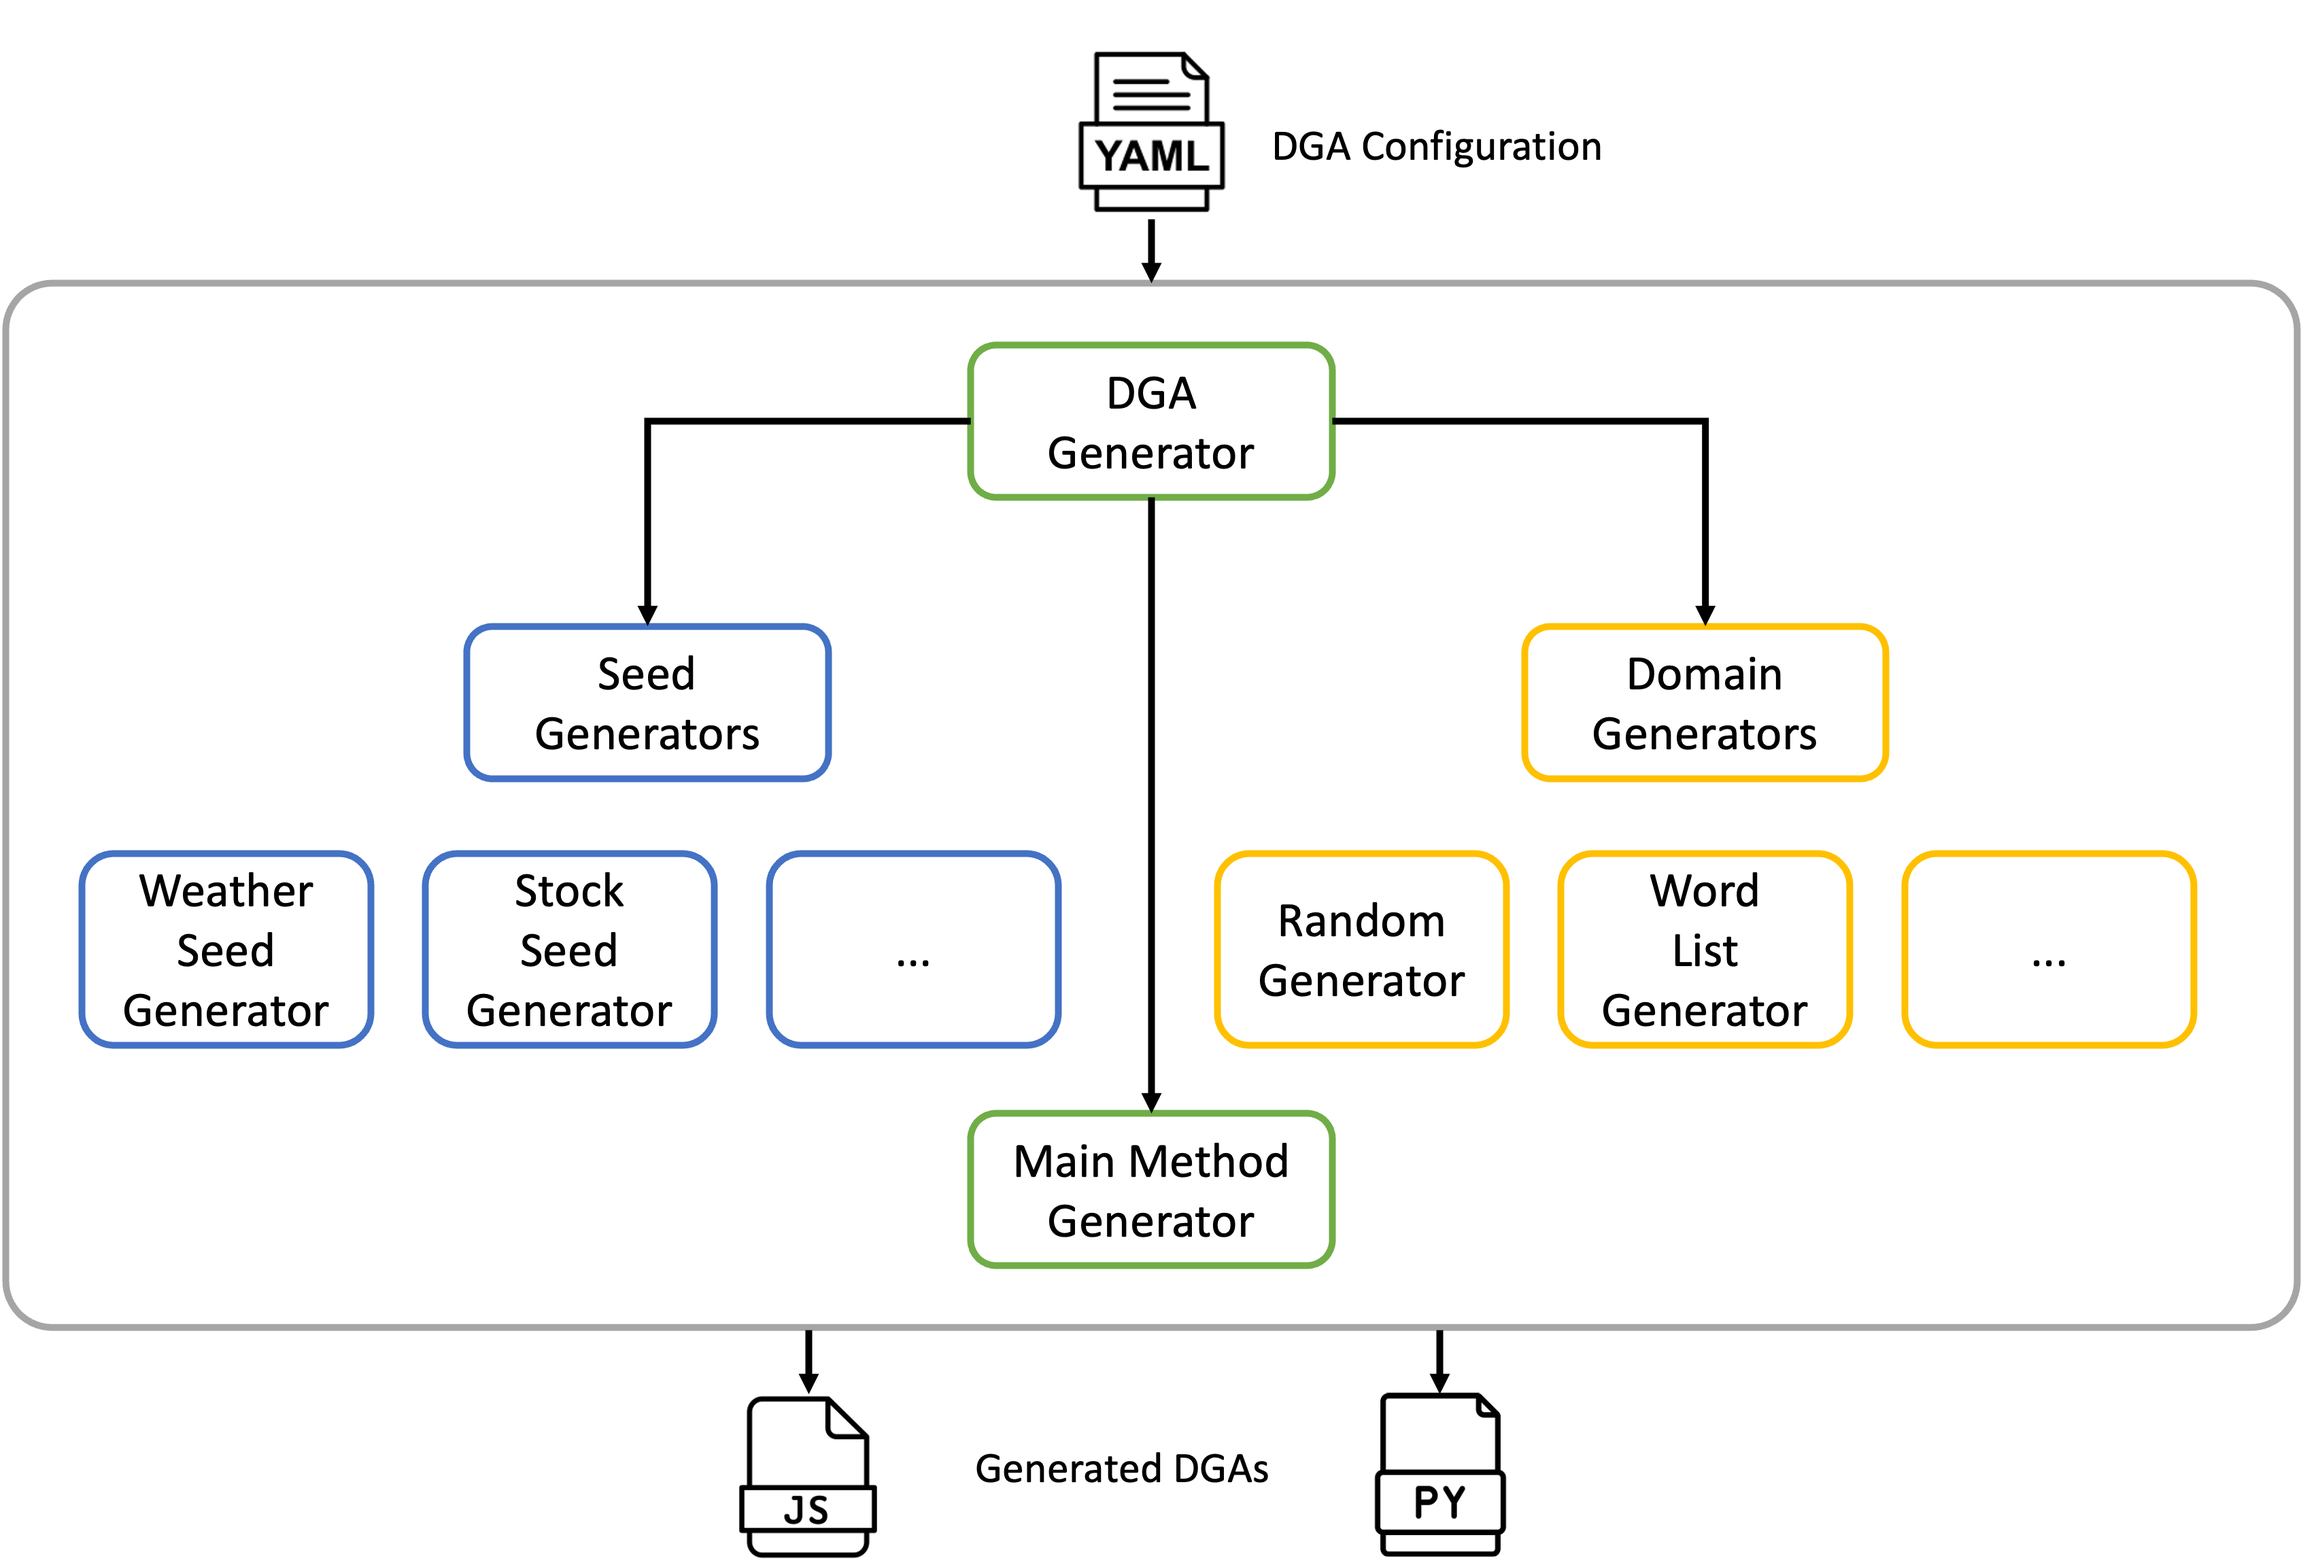
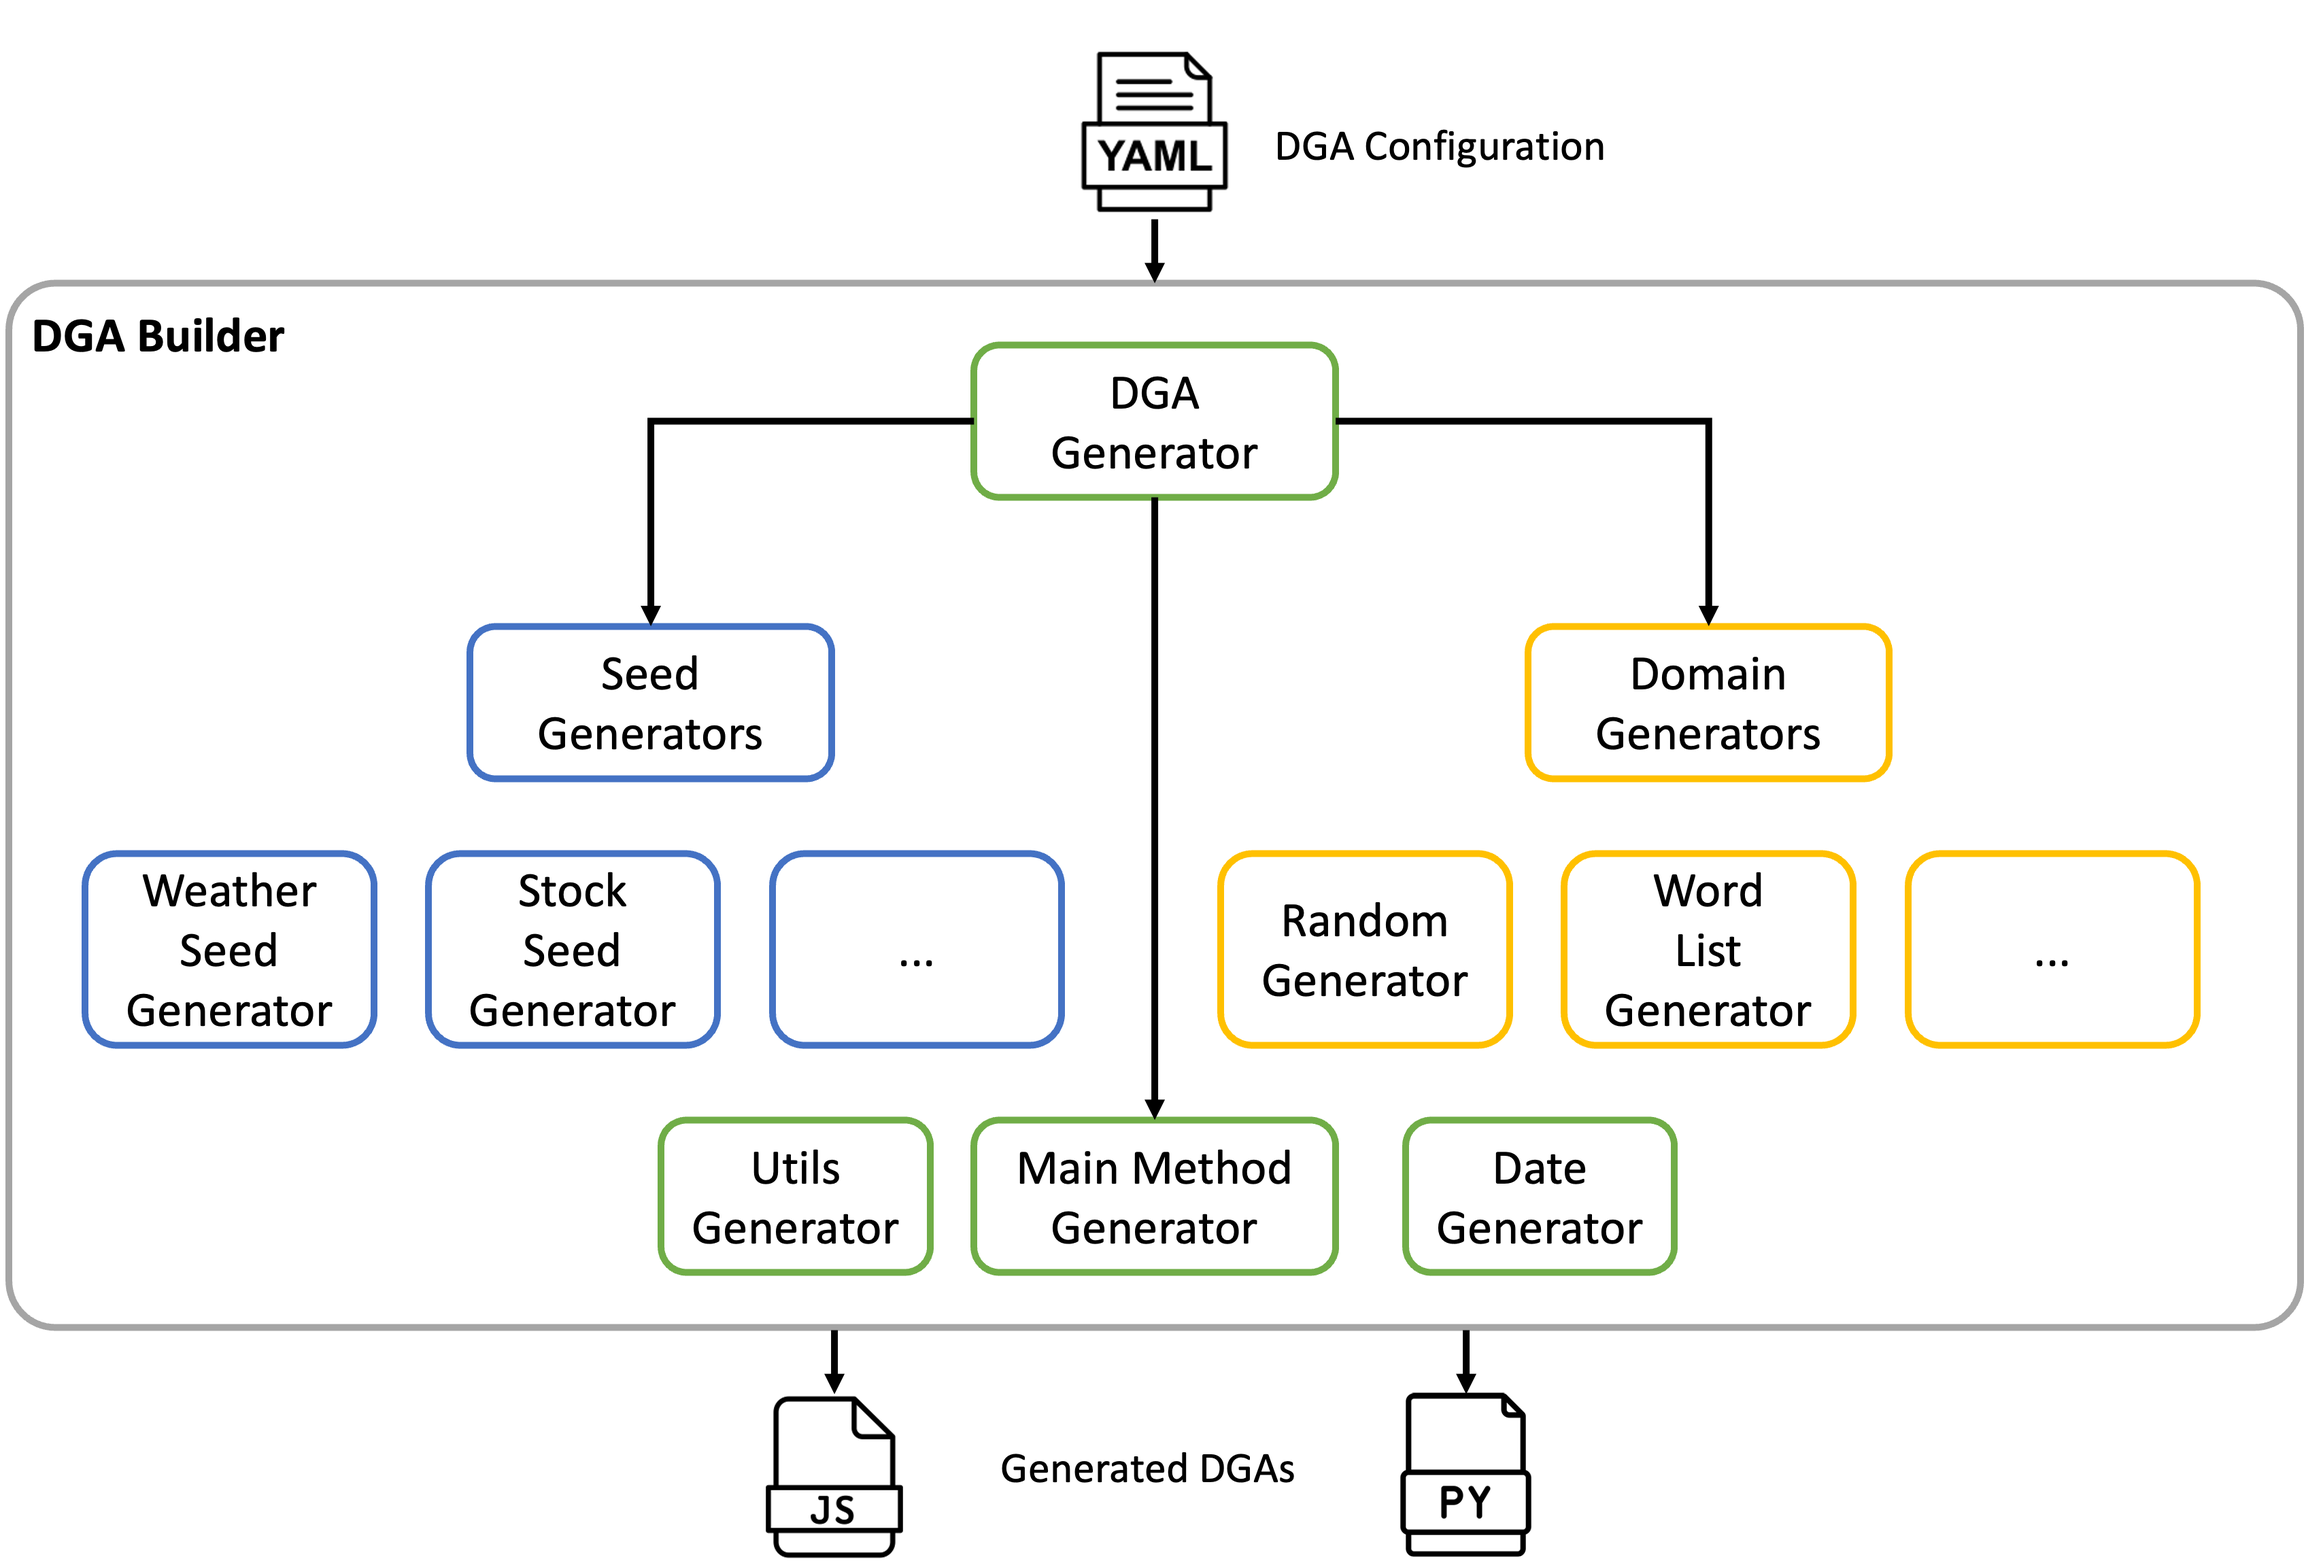
Updated the readme and discussion.

diff --git a/cycle-2/DISCUSSION.md b/cycle-2/DISCUSSION.md
@@ -1,5 +1,5 @@
 # Introduction
-
+For Cycle 2, I developed a [Domain Generation Algorithm](https://en.wikipedia.org/wiki/Domain_generation_algorithm) Builder (DGA Builder). DGAs produce a set of pseudorandom, but deterministic, set of DNS names.  DGAs are commonly used by malware to reach back to their C2 infrastructure. If malware were to use hardcoded IP addresses or domain names, then blocking by those addresses/names it would be trivial to block the C2 channel with a firewall.  DGAs solve this problem by providing a set of domains to be tried that usually change over time, preventing defenders from simply blocking a static set of names.  This project provides a command line utility that generates configurable DGA code in multiple languages.
 
 # Interest / Motivation
 Domain Generation Algorithms are a core part of malware command and control. Domain Generation Algorithms can be hard to craft, and hard to craft well.  They must be deterministic, but hard to predict.  They need to change quickly, but must allow enough time for authors to register domains. DGAs need to evolve over time, since malware researchers may develop methods (e.g. regex) that can identify the pattern associated with the DGA.  Thus the goal of this project was to provide a tool that could allow the easy generation of high quality DGAs.  This increases the maneuverability of offensive operations.  For example, it would become very easy to send out multiple variants of malware with different DGAs, such that if one DGA gets blocked, an entire bot net might not be taken down.
@@ -27,9 +27,9 @@ Given only about a week to work on the tool, there are a lot of opportunities fo
   * **Obfuscation Automation**: While the tool itself does not provide obfuscation of generated code, most languages have tools for obfuscation. It would be great if the DGA Builder could automate using the language-specific tools to optionally obfuscate the code.
 
 # Source Code
-The source code is located on GitHub here:
+The source code is located on GitHub hat the URL below.  The repository's README contains additional technical details about the project.:
 
-https://github.com/mmacfadden/csc-842-sm23
+https://github.com/mmacfadden/csc-842-sm23/tree/master/cycle-2/
 
 
 # Video

diff --git a/cycle-2/README.md b/cycle-2/README.md
@@ -19,9 +19,9 @@ The main requirements of the project that influenced the functionality and desig
 A specific non-requirement was code obfuscation.  While DGA's are often obfuscated when included in malware, there are existing language-specific tools that perform obfuscation.
 
 ## Design
-The high-level architecture for the project is depicted below.  A [configuration file](#config-file) is fed to the main script ([dga-builder.py](dga-builder.py)).  The [DgaGenerator](dga/dga_generator.py) class provides the main logic for building DGAs.  The [CodeGenerator](dga/codegen.py) interface defines the interface for all modules that generate code and implementers must implement code generation methods for each supported language.
+The high-level architecture for the project is depicted below.  The project was implemented in Python because it does not require a build system and adding additional modules (plugins) is as easy as adding new source files in specific directories.
 
-The [seed](dga/seed) directory contains plugins that generate random seeds.  Modules added to this directory are automatically available to use via the configuration file without any other code changes.  Similarly, the [domain](dga/domain) directory contains plugins for generating domain names.
+A [configuration file](#config-file) is fed to the main script ([dga-builder.py](dga-builder.py)).  The [DgaGenerator](dga/dga_generator.py) class provides the main logic for building DGAs.  The [CodeGenerator](dga/codegen.py) interface defines the interface for all modules that generate code and implementers must implement code-generation methods for each supported language. The [seed](dga/seed) directory contains plugins that generate random seeds.  Modules added to this directory are automatically available to use via the configuration file without any other code changes.  Similarly, the [domain](dga/domain) directory contains plugins for generating domain names. The [DateCodeGenerator](dga/date_codegen.py) class generates code that computes dates that can be used by the seed generators.
 
 ![Architecture](assets/architecture.png)
 
